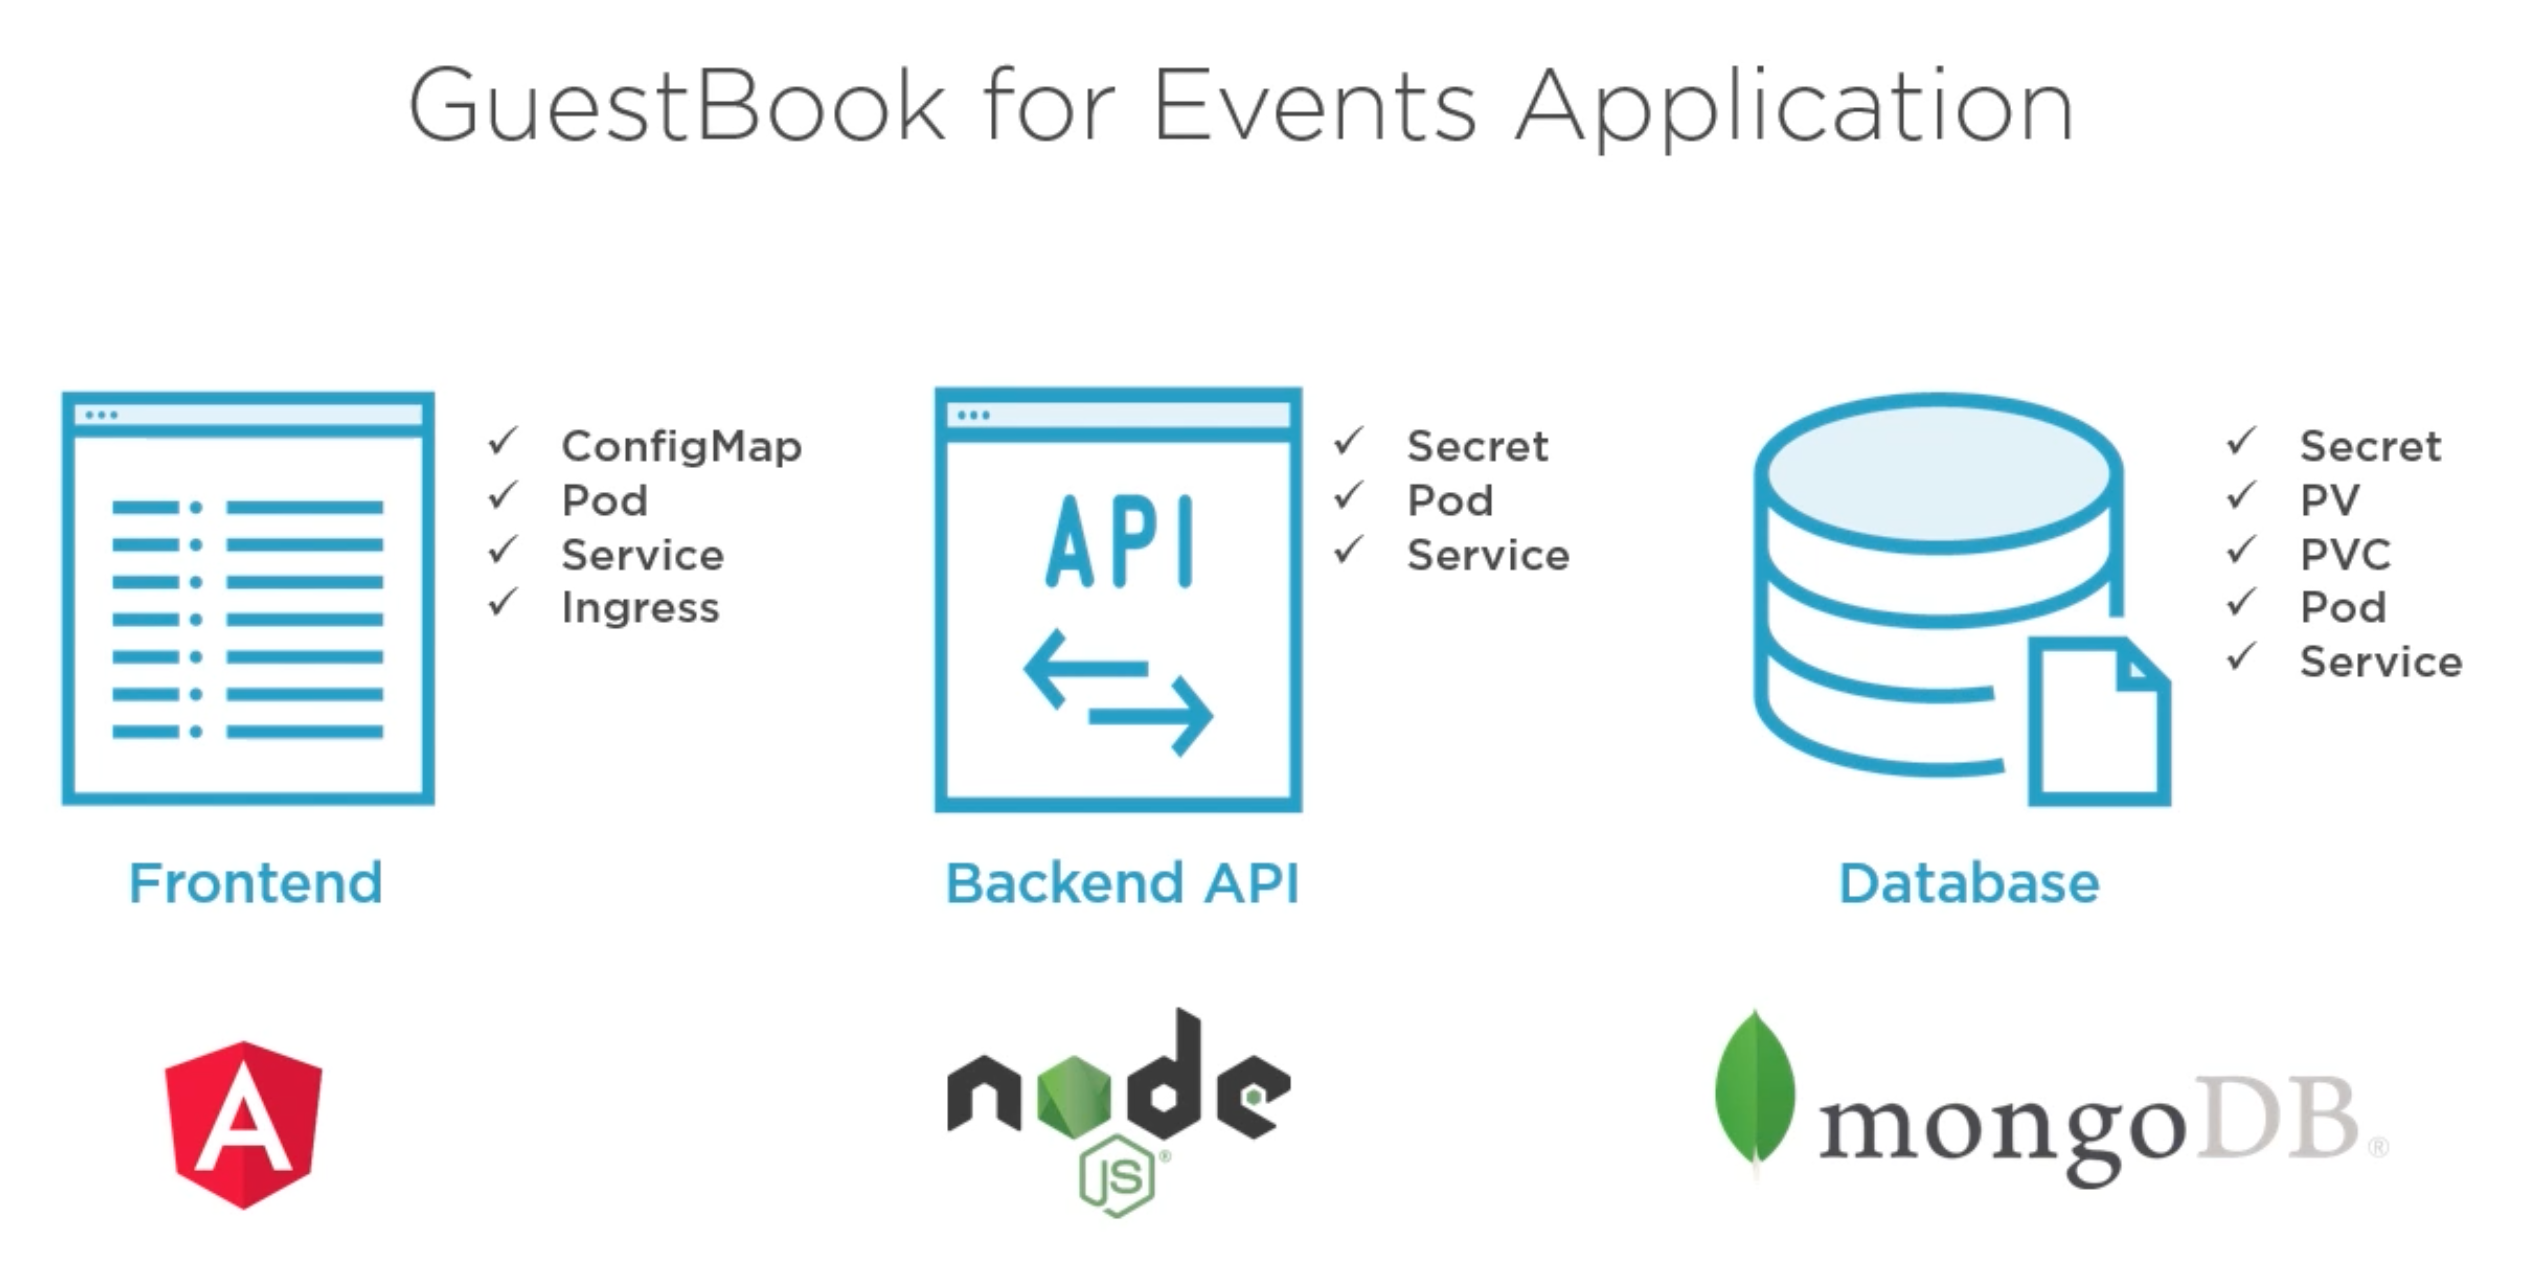
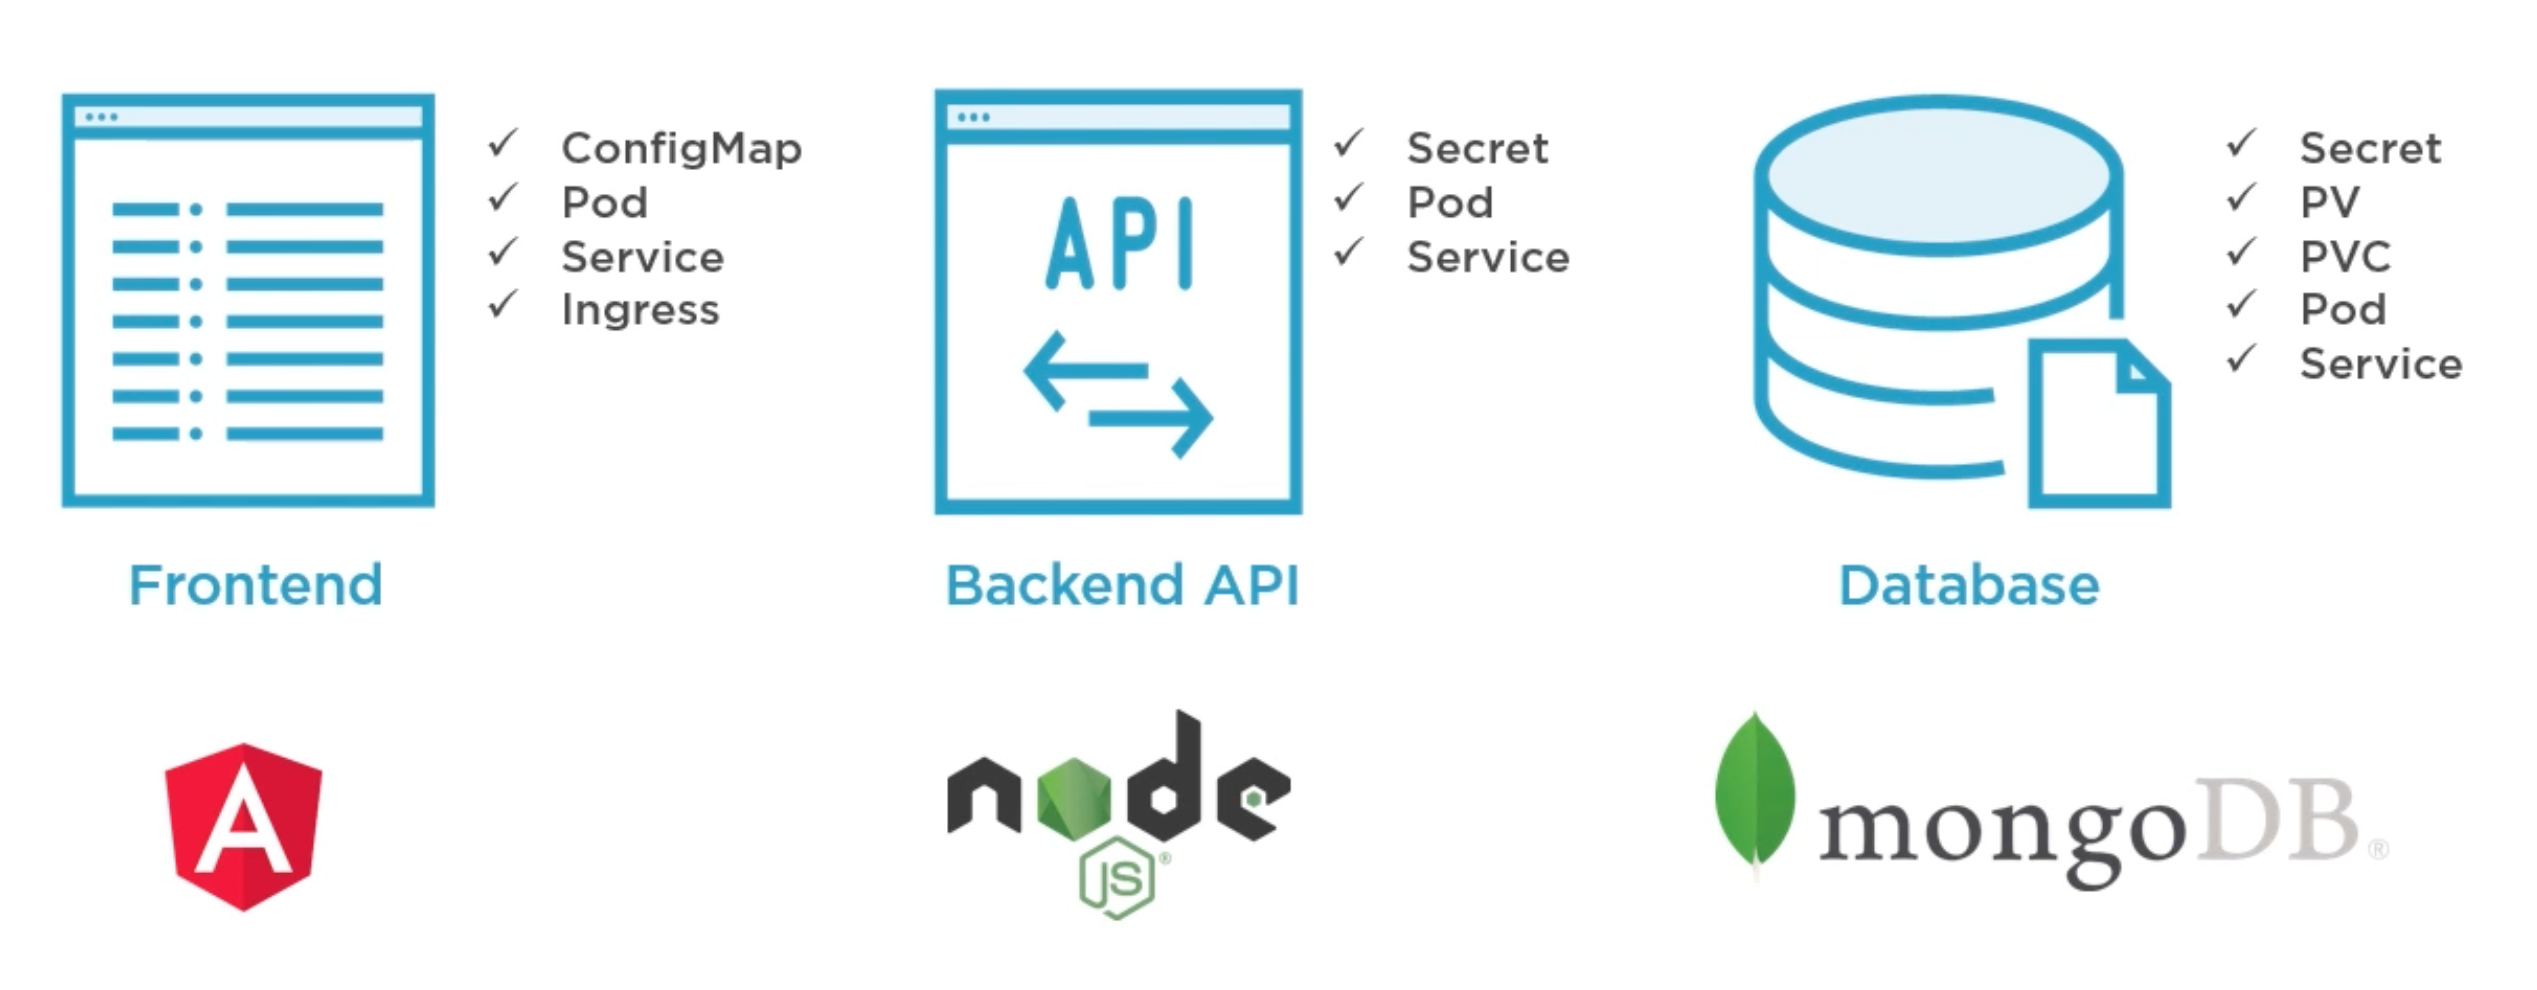
cleanup

diff --git a/05-helm/README.md b/05-helm/README.md
@@ -30,7 +30,7 @@
 <div align="center"><img src="assets/guestbook-application-ui.png" width="900"></div>
 <br />
 
-<div align="center"><img src="assets/guestbook-application-architecture.png" width="800"></div>
+<div align="center"><img src="assets/guestbook-application-architecture.png" width="780"></div>
 <br />
 
 ```bash
@@ -39,7 +39,7 @@ make reset
 
 ```bash
 $ minikube ip
-192.168.99.105
+192.168.99.115
 ```
 
 ```bash
@@ -447,7 +447,7 @@ spec:
 
 > Helm is a package manager for Kubernetes.
 
-<div align="center"><img src="assets/package-managers.png" width="600"></div>
+<div align="center"><img src="assets/package-managers.png" width="580"></div>
 <br />
 
 <div align="center"><img src="assets/how-it-works.png" width="800"></div>
